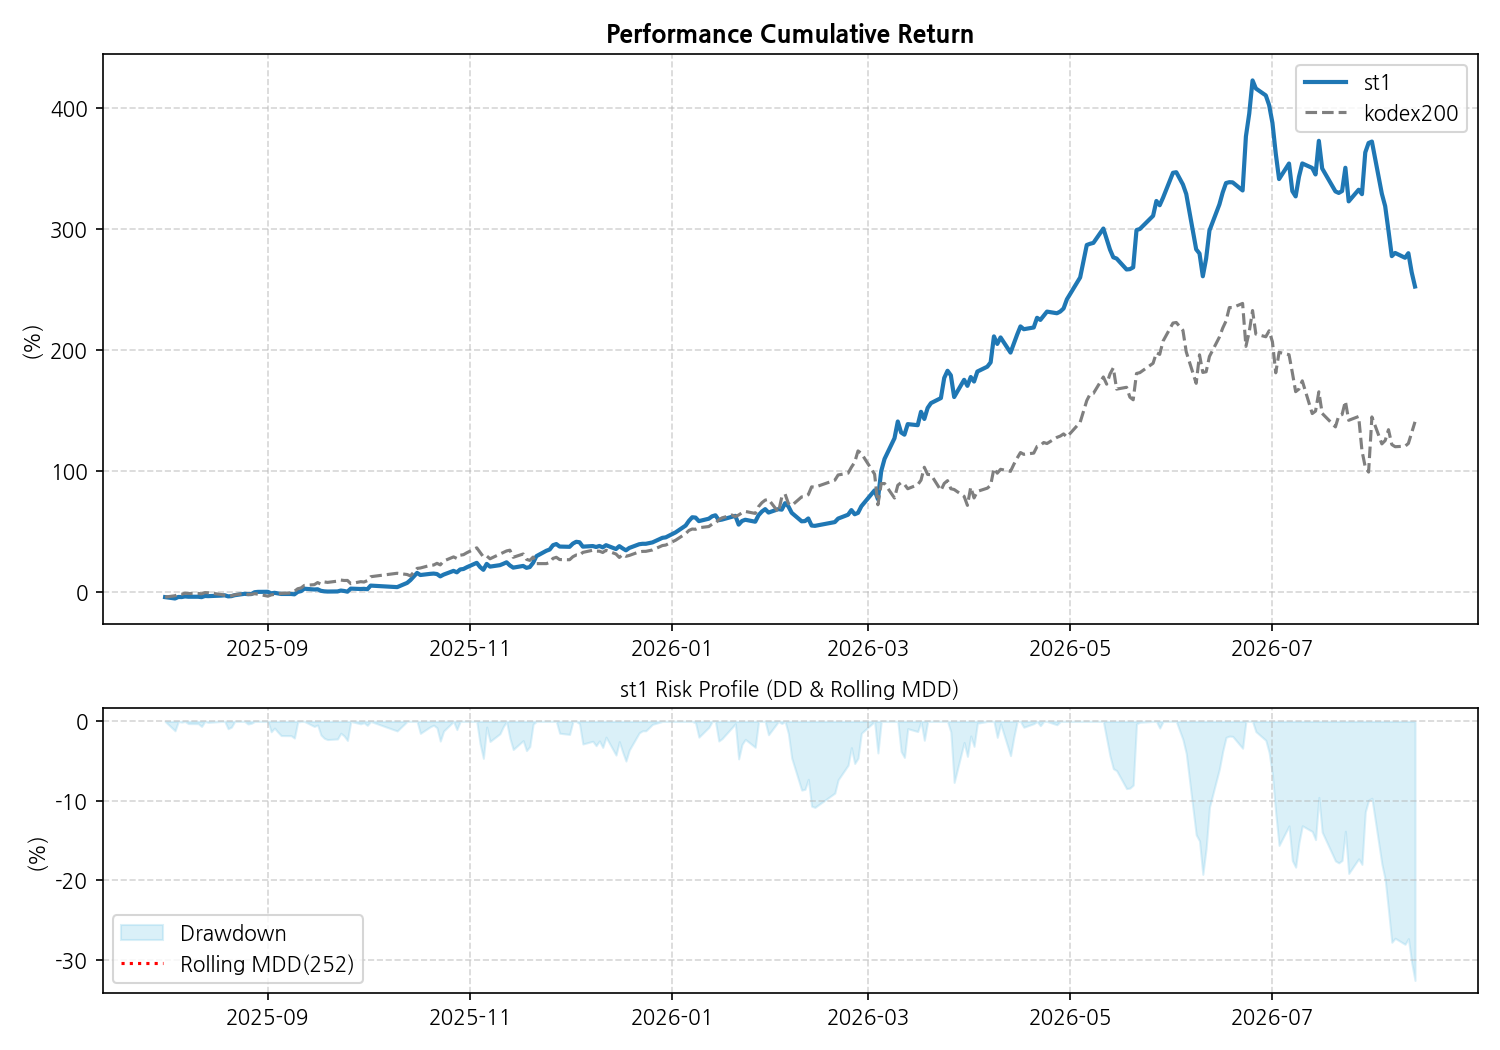
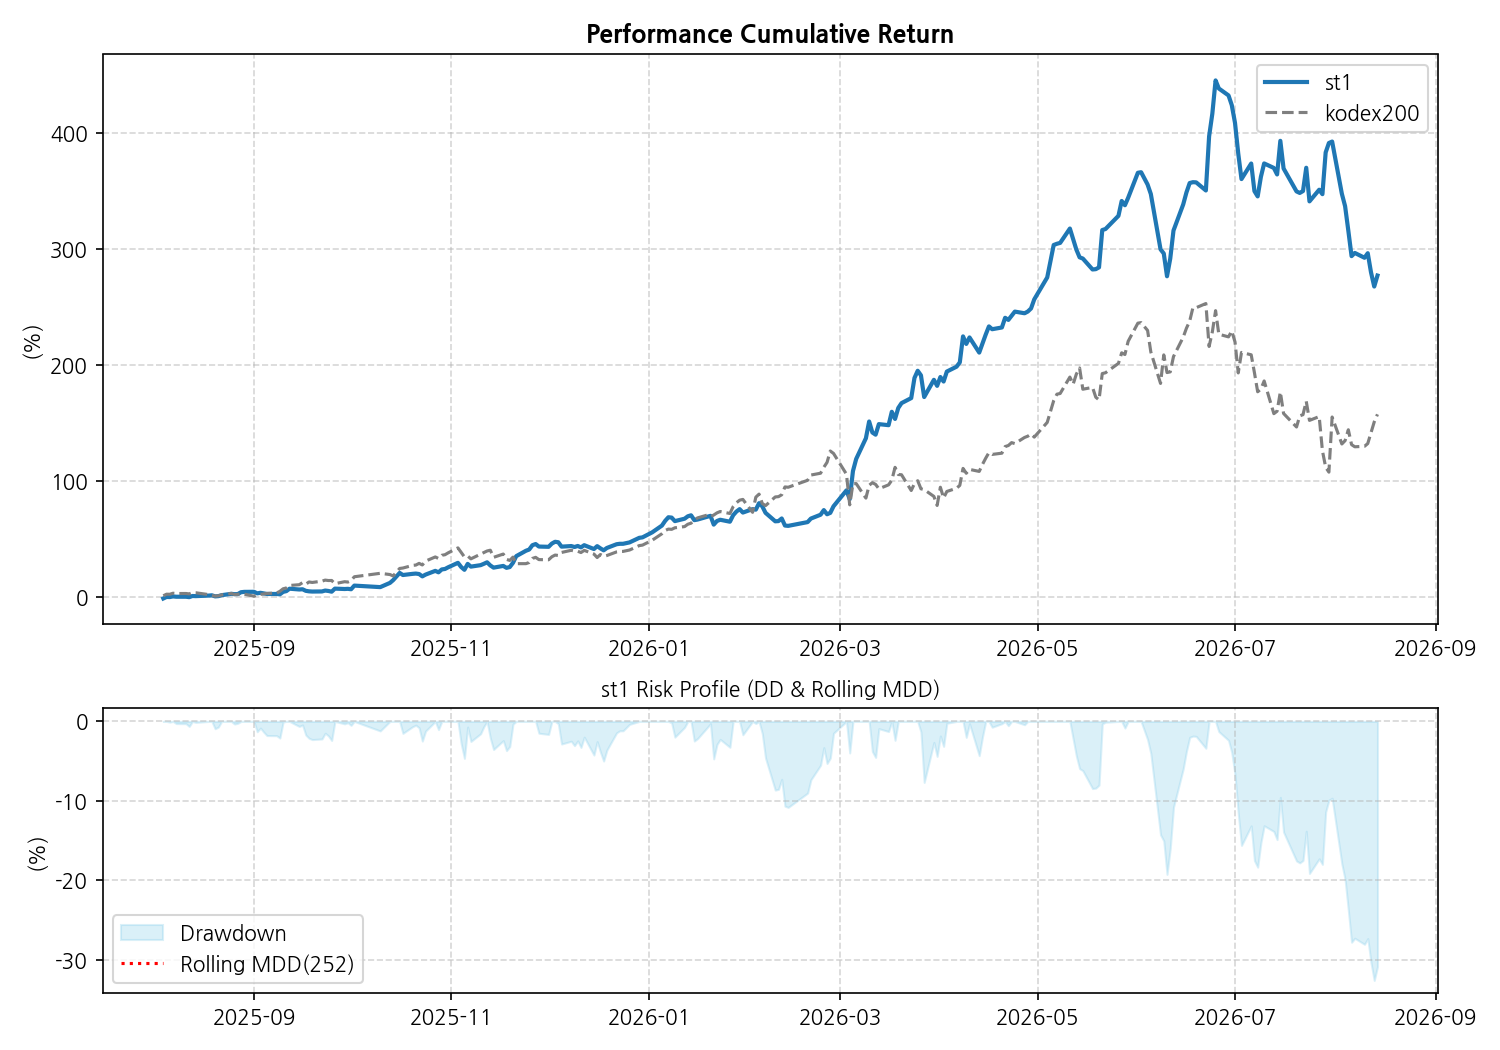
Auto commit

diff --git a/_pages/bt/bt_kodex.md b/_pages/bt/bt_kodex.md
@@ -2,7 +2,7 @@
 layout: post
 title: "BT, 오늘의 시그널(ETF)"
 author: Best Investor
-date: 2026-08-13
+date: 2026-08-14
 category: BT
 mermaid: true
 parent: 포트폴리오
@@ -14,14 +14,14 @@ parent: 포트폴리오
 
 | 지표 | 전략 1 (S1) | 전략 2 (S2) | 차이 (Diff) |
 | :--- | :---: | :---: | :---: |
-| **오늘 수익률** | -3.23% | 3.89% | -7.12% |
-| **30일 수익률** | -27.72% | -21.53% | -6.19% |
-| **1년 수익률** | 252.38% | 140.64% | 111.74% |
-| **전체 수익률** | 1077.97% | 264.97% | 813.0% |
+| **오늘 수익률** | 2.57% | 2.6% | -0.03% |
+| **30일 수익률** | -21.8% | -12.17% | -9.63% |
+| **1년 수익률** | 277.02% | 157.47% | 119.55% |
+| **전체 수익률** | 1108.3% | 278.07% | 830.23% |
 | **MDD (1Y)** | -32.58% | -41.15% | 8.57%p |
 | **MDD (ALL)** | **-32.58%** | **-41.15%** | 8.57%p |
-| **샤프 (1Y)** | 2.92 | 1.81 | 1.11 |
-| **샤프 (ALL)** | **2.42** | **1.15** | 1.27 |
+| **샤프 (1Y)** | 3.08 | 1.93 | 1.15 |
+| **샤프 (ALL)** | **2.45** | **1.17** | 1.28 |
 
 ## 📉 누적 성과 및 리스크 차트
 1. **최근 30일:** ![30일](/img_st/st_kodex_cum_risk_30d.png)

diff --git a/_posts/signal/2026-04-01-signal.md b/_posts/signal/2026-04-01-signal.md
@@ -7,6 +7,18 @@ category: Jekyll
 ---
 ## 시그널  
 
+### 📊 2026-08-18 Afternoon Trading Signal
+
+- 📅 날짜: 2026-08-18  
+- ⏰ 시간: 13:25  
+- 🧾 종목: **KODEX 200**  
+- 📈 포지션: **상방**
+
+##### 🧭 Execution Plan
+- 🚀 진입: 오늘 종가_진입(매수)
+- 🎯 청산: 내일 시가_청산
+
+
 ### 📊 2026-08-14 Afternoon Trading Signal
 
 - 📅 날짜: 2026-08-14  
